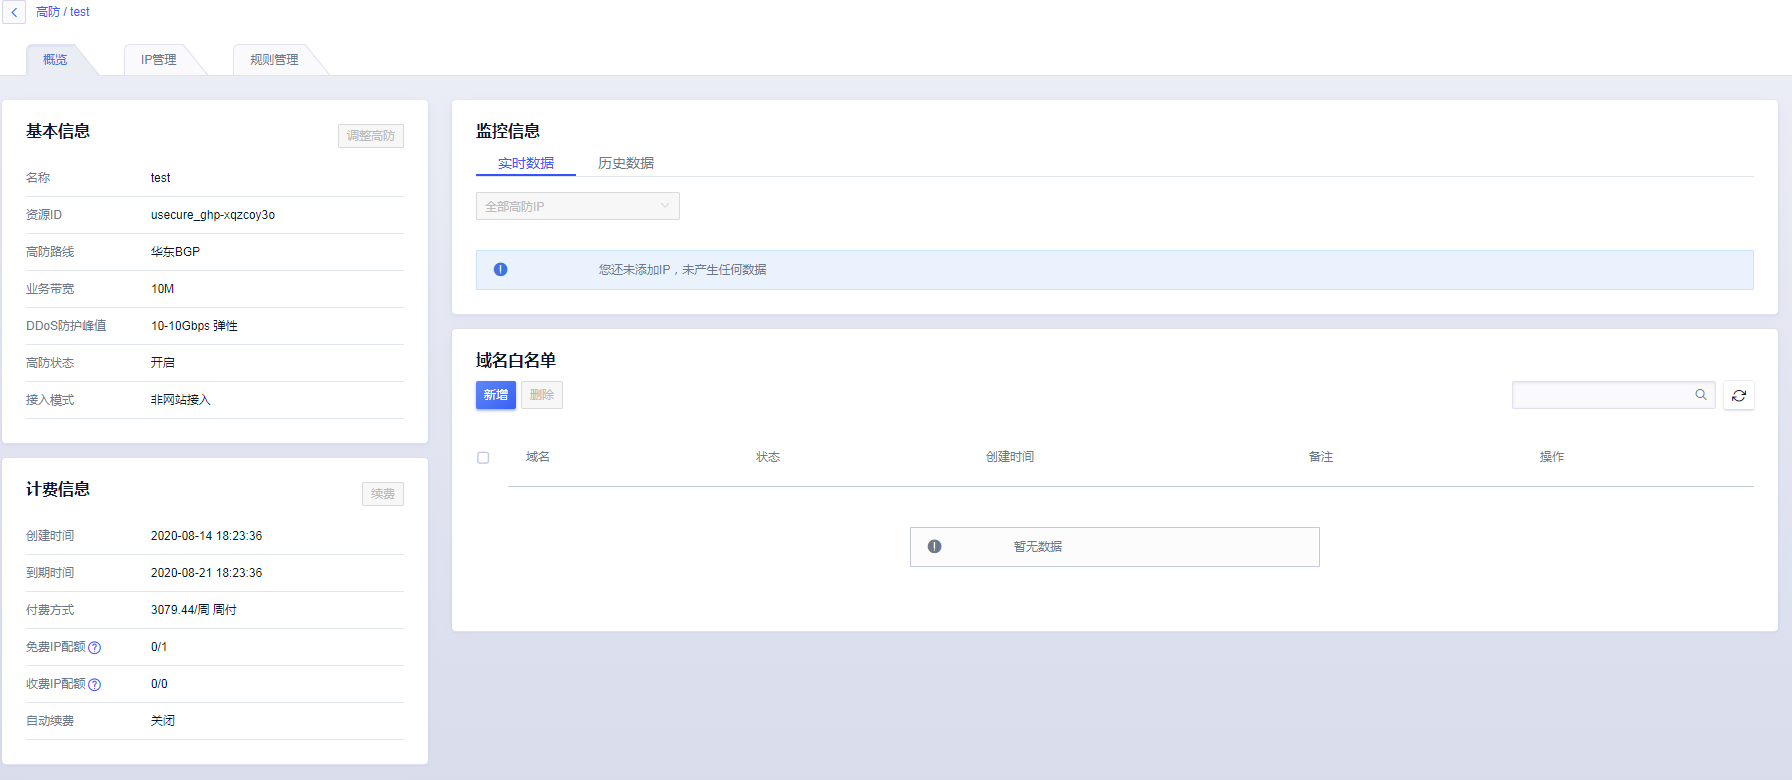
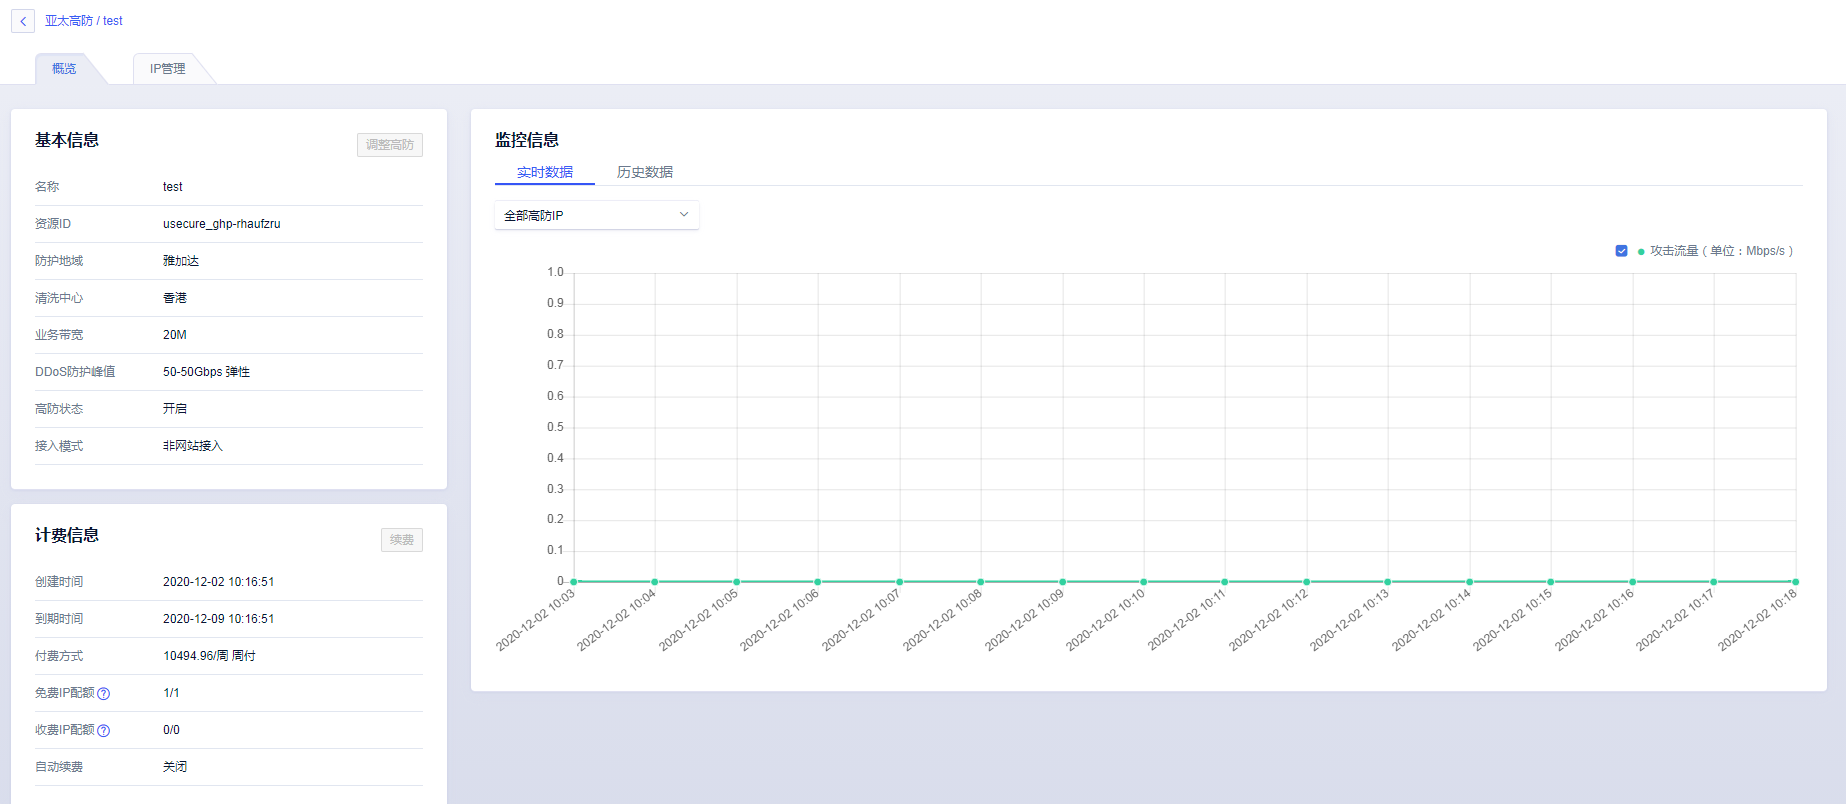
2020-12-2 亚太高防v2

diff --git a/AsiaPacific/opintro/dashboard.md b/AsiaPacific/opintro/dashboard.md
@@ -11,10 +11,12 @@
 | -------- | ------------------------------- |
 | 名称       | 添加高防的时候，自定义的名称                  |
 | 资源ID     | 高防的唯一标识，当出现问题，需要定位和排查的时候请提交资源ID |
-| 高防线路     | 购买时选择的高防机房                   |
+| 防护地域 | 针对此机房的业务进行防护         |
+| 清洗中心 | 流量将被引流到清洗中心进行清洗 |
 | 业务带宽     | 高防机房回源站的带宽大小                    |
 | DDoS防护峰值 | 显示已购买的防护能力范围                    |
 | 高防状态     | 共有三种状态，「开启」、「过期」和「关闭」           |
+| 接入模式 | 网站高防：支持3-7层防护，仅提供一个高防IP，仅支持标准http和https协议端口；非网站接入：提供3-4层防护，采用TCP转发模式，支持非标准业务端口。 |
 
 
 表2.计费信息
@@ -22,8 +24,8 @@
 | 项目   | 描述                                         |
 | ---- | ------------------------------------------ |
 | 创建时间   | 高防购买的时间 |
-| 到期时间   | 高防到期的时间  |                                  |
-| 付费方式   | 计费方式包括三种「按天」、「按月」和「按年」，其中「按天」需要跟客户经理单独申请开通 |
+| 到期时间   | 高防到期的时间  |
+| 付费方式   | 计费方式包括三种「按周」、「按月」和「按年」 |
 | 免费IP配额   | 套餐内可免费添加的高防IP数量 |
 | 收费IP配额   | 套餐内可收费添加的高防IP数量 |
 | 自动续费   | 显示自动续费的状态，包括「开启」和「关闭」，可以在高防状态是「开启」的时候任意开关  |
@@ -38,12 +40,6 @@
 
   - **历史数据：** 按天，显示一整天的入向流量情况。最多支持显示30天的历史流量信息。 按月，显示一整个月的历史流量信息。
 
-表4.域名白名单
 
-显示所有已经添加的域名白名单，处于白名单列表中的域名将不会被机房域名检测系统拦截：
-
-  - **成功：** 已成功添加到机房域名检测系统的域名。
-
-  - **失败：** 因域名未备案或者查询不到备案信息未添加到机房检测系统中的域名。
 
 

diff --git a/AsiaPacific/concepts/overview.md b/AsiaPacific/concepts/overview.md
@@ -28,4 +28,9 @@
 - 公有基础DDoS防护无法满足，需更高防护能力的场景
 
 ## IP配额
-亚太高防每套餐提供5个高防IP（月付），周付只提供1个高防IP。
+| 付费类型 | 免费配额 | 收费配额 |
+| -------- | -------- | -------- |
+| 年付     | 5        | 0        |
+| 月付     | 5        | 0        |
+| 周付     | 1        | 0        |
+
